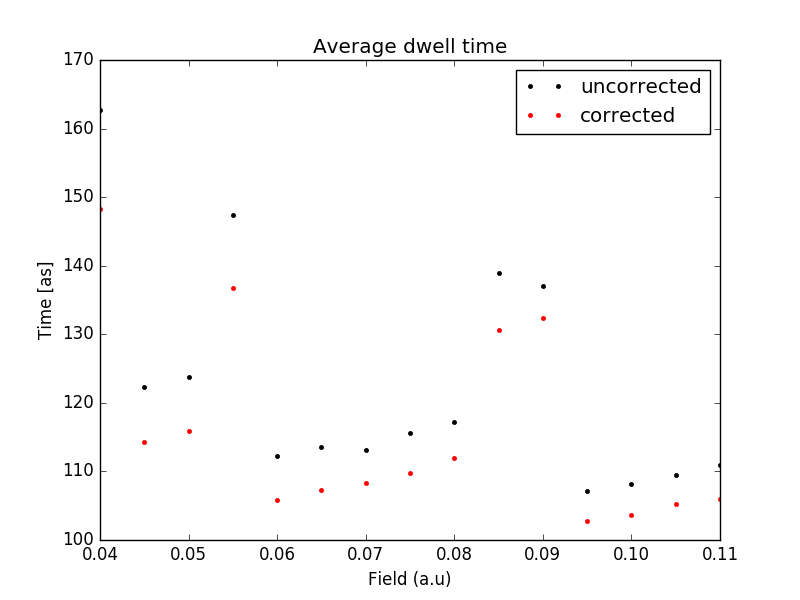
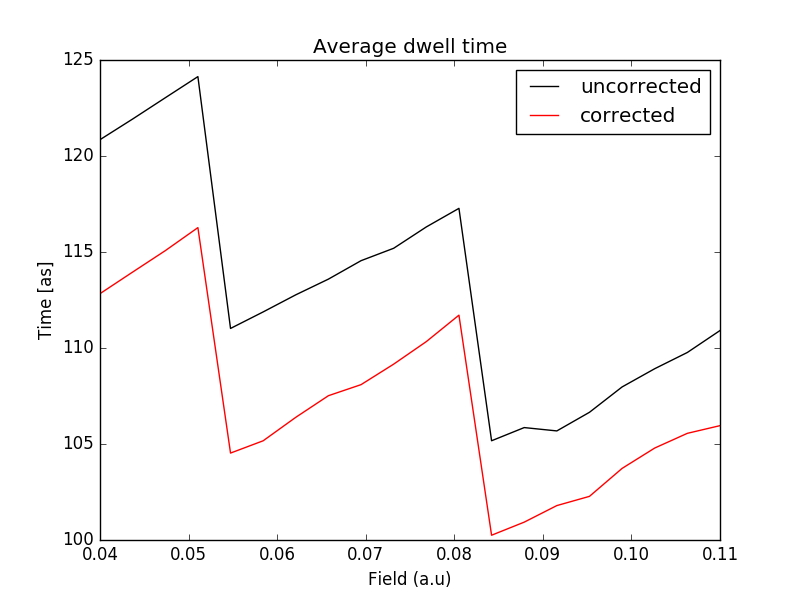
imagenes

diff --git a/Times/Dwell/N_Photons_dissipation/dwell_time_disip.py b/Times/Dwell/N_Photons_dissipation/dwell_time_disip.py
@@ -131,7 +131,7 @@ def find(func,x):
 '''
 
 #f=np.linspace(0.1,0.8,15)
-f=np.linspace(0.04,0.11,15)
+f=np.linspace(0.04,0.11,10)
 x=np.linspace(0.1,20)
 
 Turning_C=[]#Turning points of corrected function
@@ -223,36 +223,25 @@ for j in range(4):
         F=f[i]
         DE[i]=DE_func(Turning_C[i][1],Turning_C[i][2])
         TE[i]=I(F)/4.0
-'''
-    plt.plot(f,DE,label="$ \gamma= $"+str(gamma))
-
-plt.plot(f,TE,"k--",label="$ I(F)/4 $")
-
-plt.title("$ \mathrm{Dissipation\ in }\ \eta  $")
-plt.xlabel("$ F\  \mathrm{(a.u.)} $")
-plt.ylabel("$ \Delta E\  \mathrm{(a.u.)} $")
-plt.text(f[2],TE[0]+0.001,"$ Maximum\ Energy\ Dissipated\ $", fontsize=14 )
-plt.legend()
-plt.savefig("Energy_lost.png")
-plt.show()
-plt.close()
-'''
 
 #Finding turning points with dissipation------------------------------
 
 Turning_C=[]#Turning points of corrected function
 Turning=[]#Turning points of uncorrected function
+cutoff=0.5
+gamma=0.0005
+
 print "gamma=",gamma
 for i in range(len(f)):
     F=f[i]
     
     N=int(DE[i]/(hbar*omega))
     
-    if(DE[i]/(hbar*omega)> N+0.5):
+    if(DE[i]/(hbar*omega)> N+cutoff):
         N+=1
     
     
-    D=N*hbar*omega#DE[i]
+    D=DE[i]#N*hbar*omega#
     
     print "F=",F, "N=", N, DE[i]/(hbar*omega) #campo y numero de fotones absorvidos
     
@@ -291,10 +280,10 @@ for i in range(len(f)):
     
     N=int(DE[i]/(hbar*omega))
     
-    if(DE[i]/(hbar*omega)> N+0.7):
+    if(DE[i]/(hbar*omega)> N+cutoff):
         N+=1
     
-    D=N*hbar*omega#DE[i]
+    D=DE[i]#N*hbar*omega#DE[i]
     
 
     T1=Turning[i][1]
@@ -327,15 +316,15 @@ for i in range(len(f)):
 
 
 
-plt.plot(f,Time_ave,"k.",label="uncorrected")
-plt.plot(f,Time_ave_C,"r.",label="corrected")
+plt.plot(f,Time_ave,"k-",label="uncorrected")
+plt.plot(f,Time_ave_C,"r-",label="corrected")
 plt.ylabel("Time [as]")
 plt.xlabel("Field (a.u)")
-plt.title("Average dwell time")
+plt.title("Average dwell time, $ \gamma= $"+str(gamma))
 plt.legend()
-plt.savefig("average_disip.png")
-plt.show()
-plt.close()
+plt.savefig("gamma="+str(gamma)+"_average_disip.png")
+#plt.show()
+#plt.close()
 
 '''#
 
